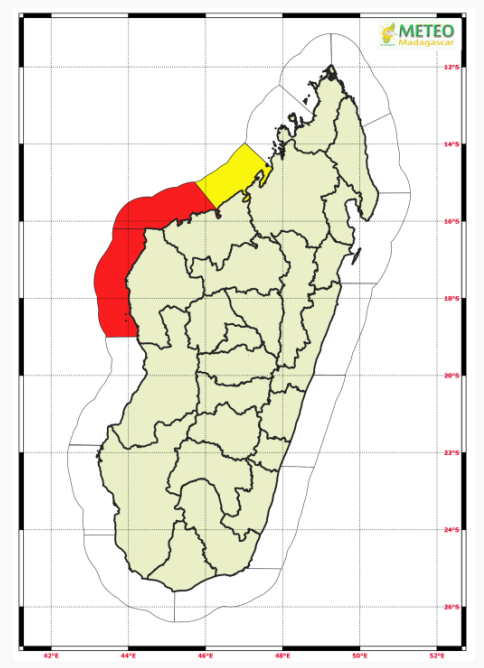
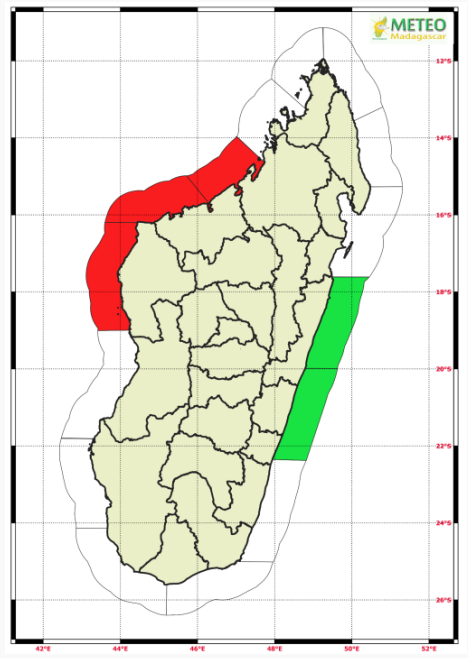
update

diff --git a/assets/js/script.js b/assets/js/script.js
@@ -10,26 +10,9 @@ Restez informé en cas d’évolution de la situation.`,
         image: 'vigilance-vide1.jpg'
     },
     {
-        message: `**FILAZANA MANOKANA MOMBA NY RIVODOZA NY 30 JANOARY 2026 TAMIN'NY 04 ORA MARAINA** 
+        message: `**FILAZANA MANOKANA MOMBA NY RIVODOZA NY 30 JANOARY 2026 TAMIN'NY 10 ORA MARAINA** 
 
-Nitombo hery ka lasa rivodoza ary nomena ny anarana hoe « FYTIA » ilay andro ratsy niforona
-tao amin’ny lakandranon’i Mozambika. Tamin’ny 03 ora maraina teo dia tany amin’ny manodidina ny
-262 Km Avaratra Andrefan’i Besalampy no nisy ny foibeny. Niakatra ho 70 Km/ora ny rivotra miaraka
-aminy izay arahina tafiotra 100 Km/ora manakaiky ny foibeny. Nikisaka niatsinanana somary Atsimo
-Atsinanana izy ka nahafaka 6 Km/ora.
-Vinavinaina hiditra an-tanety eo anelanelan’i Maintirano sy Mahajanga i FYTIA ny marainan’ny
-Sabotsy 31 Janoary 2026, ka mety hahatratra ny tanjaka rivodoza mahery na Cyclone Tropical.
-Manoloana izany dia toy izao ny filazana loza :
-- Loza manambana miloko mavo : BOENY sy MELAKY;
-- Fanairana miloko maintso : BETSIBOKA, ny Distrikan’i Fenoarivobe, Ankazobe ary
-Anjozorobe.
-Entanina ny rehetra ho mailo mandrakariva satria efa nisesy ny rotsak’orana ary mbola hitoetra
-hatramin’ny faran’ny herinandro izany.
-Entanina ny mpampiasa ranomasina eo anelanelan’i Analalava sy maintirano mba tsy
-hiandriaka intsony satria miharatsy ny toetry ny andro. Araho mandrakariva ny toro-marika omen’ny
-manam-pahefana isan-tokony. 
-
-
+Tamin’ny 09 ora maraina teo dia tany amin’ny manodidina ny 226 Km Avaratra Andrefan’i Besalampy no nisy ny foiben’i FYTIA. Lasa Forte Tempête Tropicale izy. Niakatra ho 100 Km/ora ny rivotra miaraka aminy izay arahina tafiotra 140 Km/ora manakaiky ny foibeny. Nikisaka niatsinanana somary Atsimo Atsinanana izy ka nahafaka 7 Km/ora.   Vinavinaina hiditra an-tanety eo anelanelan’i Tambohorano sy Soalala i FYTIA anio alina na rahampitso Sabotsy 31 Janoary 2026 vao maraina be. Mety hahatratra ny tanjaka rivodoza mahery na Cyclone Tropical izy amin’izay  fotoana izay (rivotra manodidina ny 150 Km/ora sy  tafiotra  210  Km/ora). Tombanana hivoaka any an-ndranomasina kosa izy ny Alahady maraina, any amin’ny faritra ATSINANANA. Manoloana izany dia miova toy izao ny filazana loza :   -  Loza manambana miloko mavo : BOENY, MELAKY ary BETSIBOKA ; -  Fanairana miloko maintso : BONGOLVA, ITASY, ANALAMANGA, ALAOTRA MANGORO ary ny Distrikan’Ambatolampy.  Aorian’ny fidirany an-tanety dia hamakivaky ny faritry ny afovoan-tany ity rivodoza ity ka ahiana hitondra rotsak’orana betsaka (50 hatramin’ny 150 mm/24 ora) amina faritra maro. Ahiana mafy ny tondra-drano,  ny  fiakaran’ny  renirano,  ny  fihotsahan’ny  tany  sy  ny  lalana.  Misy  fampitandremana mikasika izany.    Entanina  ny  mpampiasa  ranomasina  eo  anelanelan’i  Analalava  sy  maintirano  mba  tsy hiandriaka  intsony  mikorontana  ny  toetry  ny  andro.  Araho  mandrakariva  ny  toro-marika  omen’ny manam-pahefana isan-tokony.  
 
 ⚠Entanina ny rehetra mba hanaraka hatrany ny toromarika omen’ny manam-pahefana isan-tokony.⚠`,
         image: 'vigilance-cyclone.png'
@@ -38,7 +21,8 @@ manam-pahefana isan-tokony.
         message: `**Vigilance vent fort - Forte  Vague/Houle**  
 Rivotra: Tombanana hahatratra 55/65 Km/ora ny hamafin’ny rivotra izay mety harahina tafiotra indraindray.
 
-Alondrano: Hahery na hahery be ny ranomasina any amin’ny morontsiraka Afovoany Andrefana sy AvaratraAndrefana noho ny fisian’ilay fikorontanana ao amin’ny Lakandranon’i Mozambika. Tombanana ho 3/5m ny haavon’ny onja, hahatratra 6m indraindray eo anelanelan’i Maintirano sy Soalala. 
+Alondrano: Tombanana ho 3/5m ny haavon’ny
+onja, hisamonta ny ranomasina indraindray ka hahatratra 6m eo anelanelan’i Maintirano sy Soalala.
 
 `,
         image: 'vigilance_vent.png'
